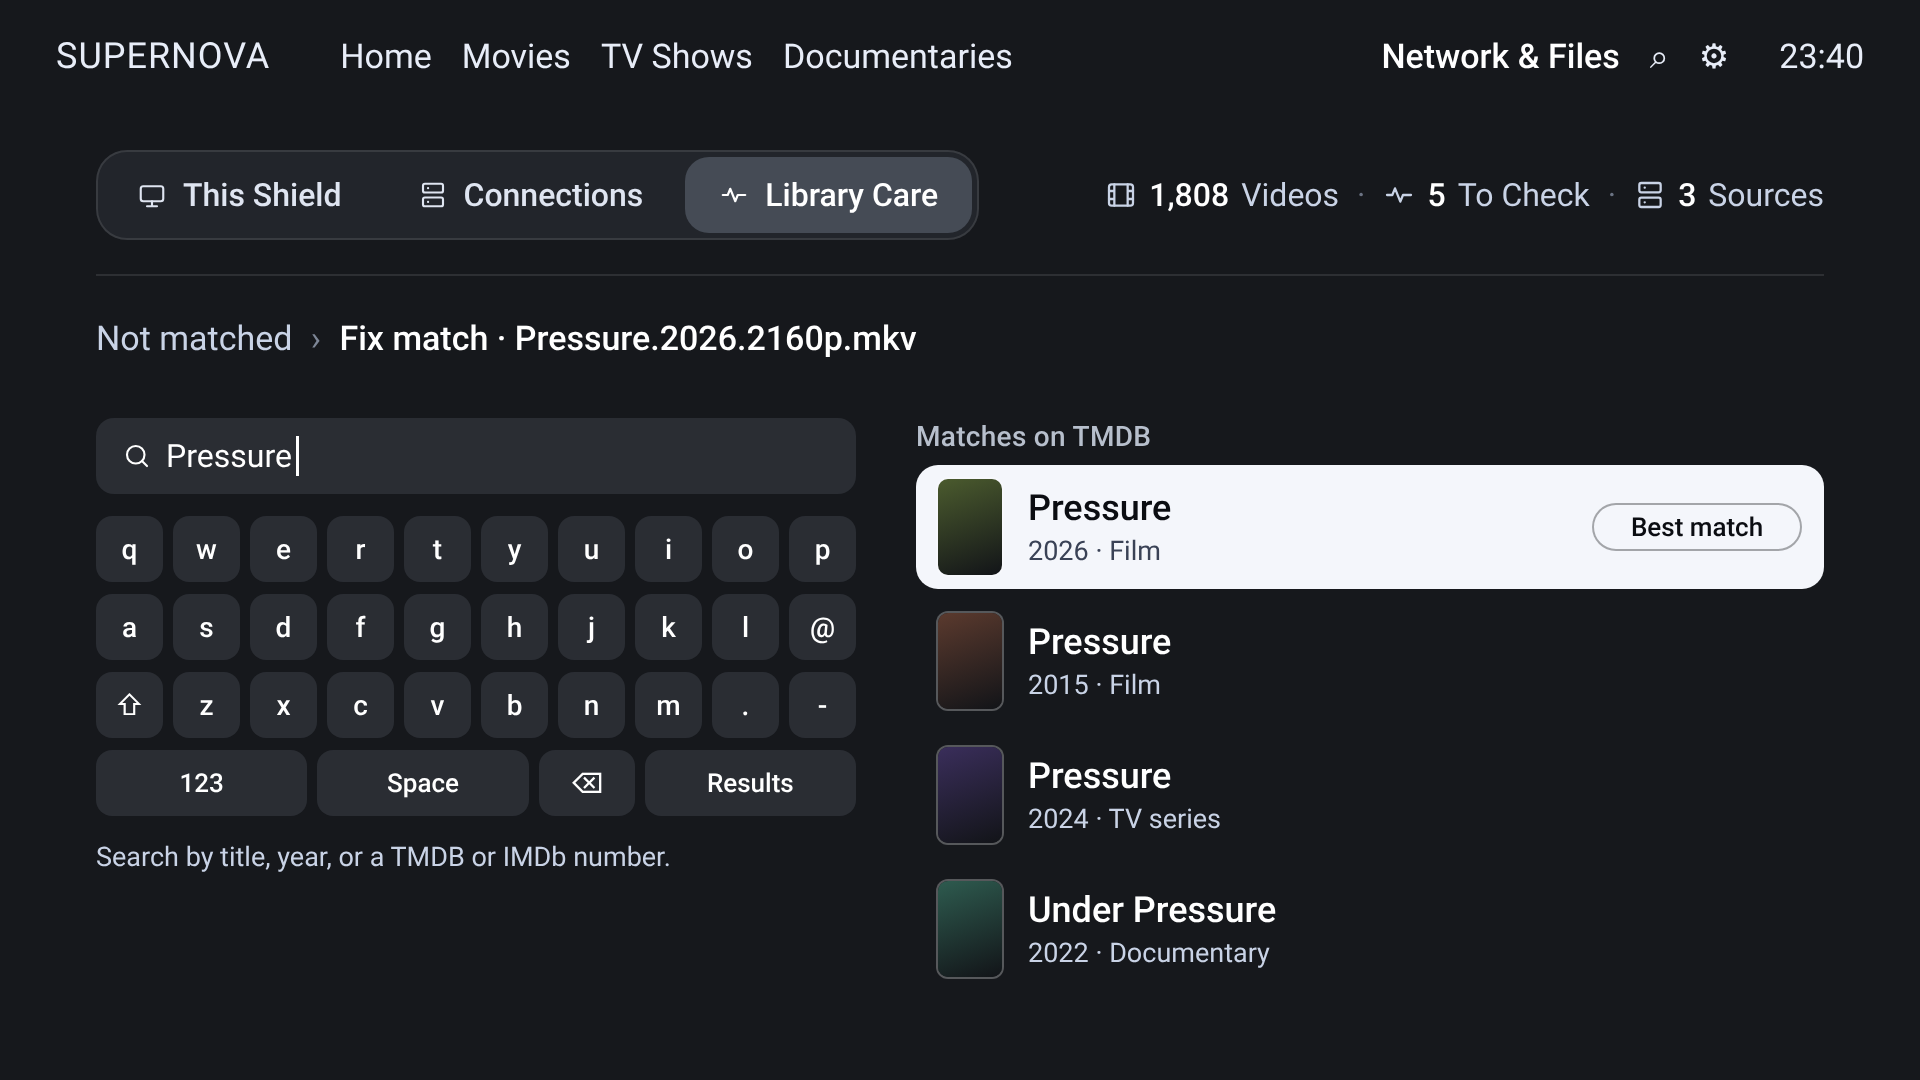
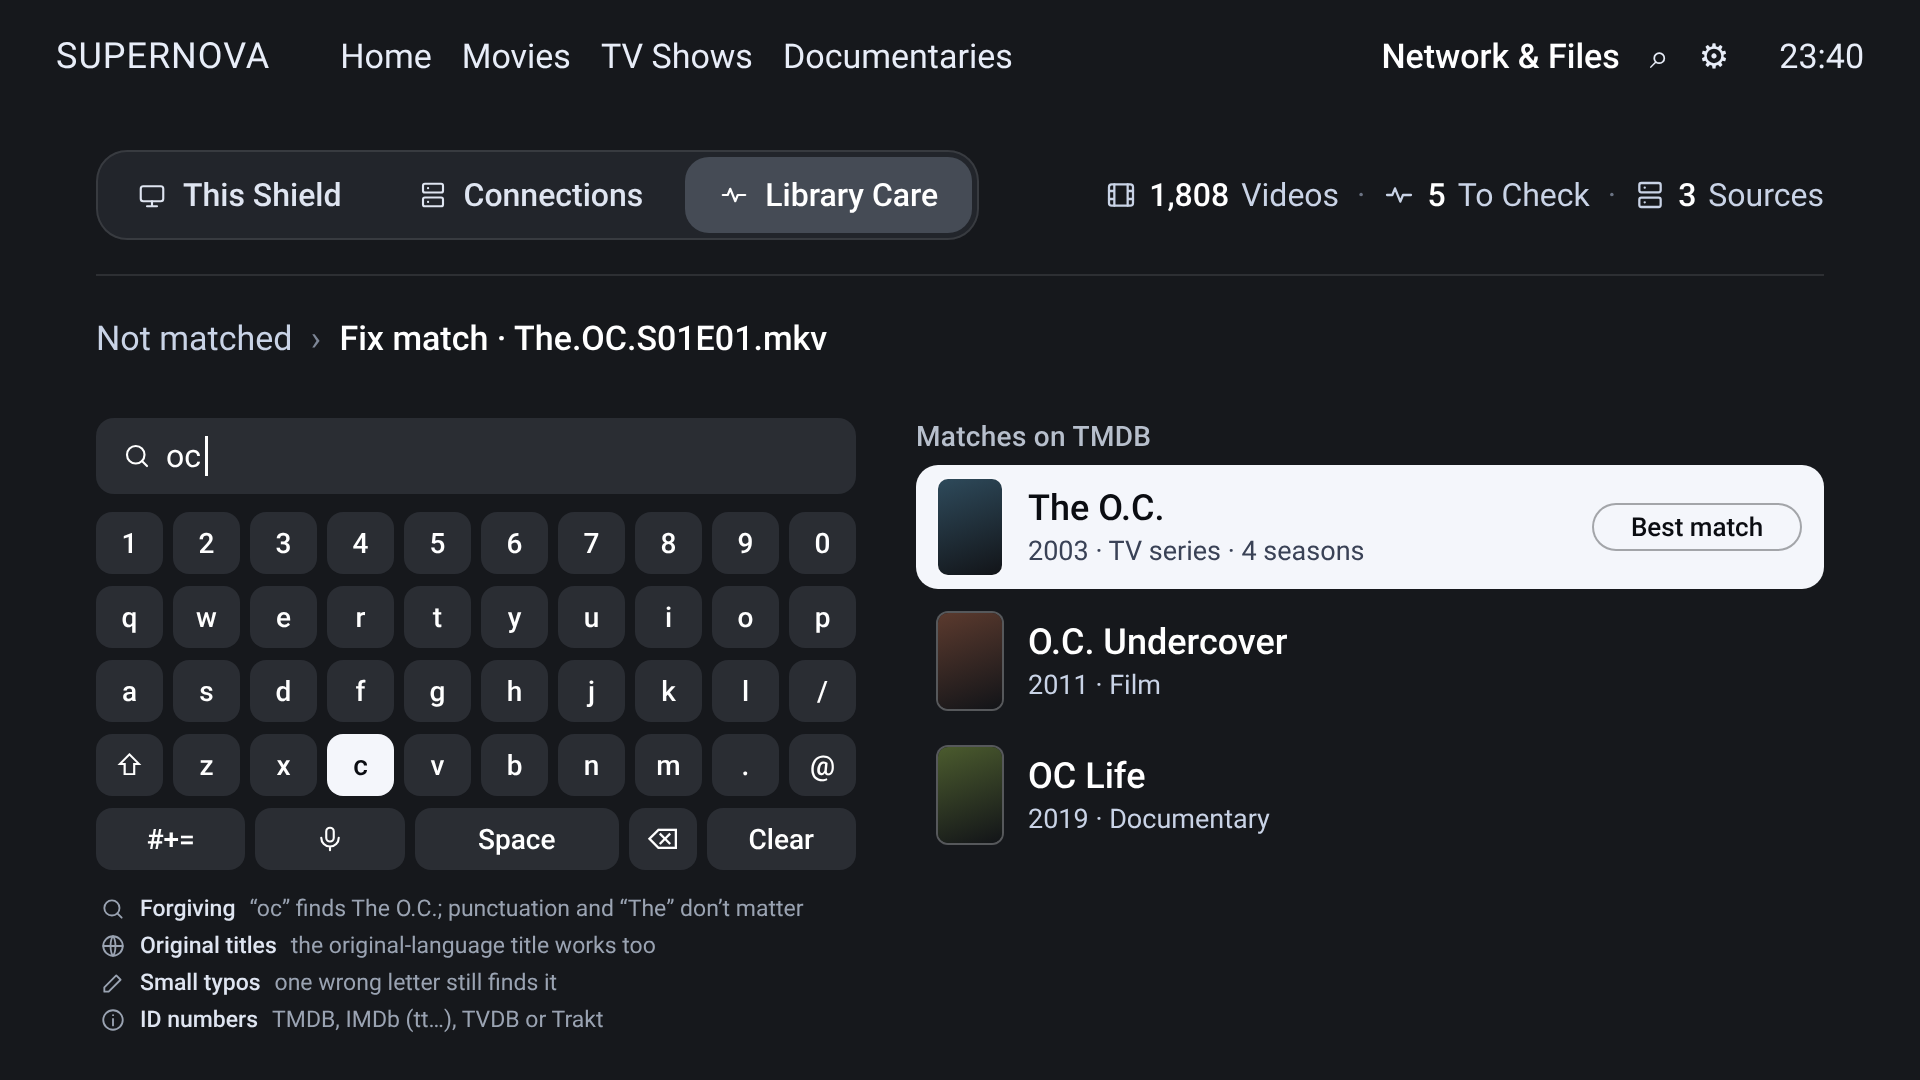
Exploring: Fix match page with the global keyboard and forgiving search like Search (owner)
Claude-Session: https://claude.ai/code/session_01FtDZqamY6pdaUKwc7fqgiA

diff --git a/docs/design/proposals/network-files-tabs/render.js b/docs/design/proposals/network-files-tabs/render.js
@@ -48,6 +48,7 @@ const I = {
   large: '<path d="M4 6h16M4 12h11M4 18h6"/>',
   small: '<path d="M4 6h6M4 12h11M4 18h16"/>',
   hourglass: '<path d="M7 3h10M7 21h10M8 3c0 5 8 5 8 9s-8 4-8 9M16 3c0 5-8 5-8 9s8 4 8 9"/>',
+  mic: '<rect x="9" y="3" width="6" height="11" rx="3"/><path d="M5 11a7 7 0 0 0 14 0M12 18v3"/>',
   eye: '<path d="M2 12s4-7 10-7 10 7 10 7-4 7-10 7S2 12 2 12z"/><circle cx="12" cy="12" r="3"/>',
 };
 const head = (open, focusTab, summary) => `<div class="tabrow"><div class="tray">${[['local', 'This Shield'], ['shares', 'Connections'], ['library', 'Library Care']]
@@ -195,14 +196,22 @@ const missingNotFound = healthPage('Missing files', '', `
 ${lrow('film', 'The Bear · S3 E4', 'Not on Backup #1 · is the drive plugged in?', 'Not found', [['search', 'Search everywhere'], ['remove', 'Remove']], true)}
 ${lrow('film', 'Arrival (2016)', 'Backup #1 › Films · since 5 Nov', 'Missing', null, false)}`);
 const fmRows = [['Pressure', '2026 · Film', true, '#4b5b2e'], ['Pressure', '2015 · Film', false, '#5b3a2e'], ['Pressure', '2024 · TV series', false, '#3a2e5b'], ['Under Pressure', '2022 · Documentary', false, '#2e5b4f']];
+const gkeys = [['1', '2', '3', '4', '5', '6', '7', '8', '9', '0'], ['q', 'w', 'e', 'r', 't', 'y', 'u', 'i', 'o', 'p'],
+  ['a', 's', 'd', 'f', 'g', 'h', 'j', 'k', 'l', '/'], ['⇧', 'z', 'x', 'c', 'v', 'b', 'n', 'm', '.', '@'], ['#+=', 'mic', 'Space', '⌫', 'Clear']];
+const keyLabel = k => k === 'mic' ? icon(I.mic, 30) : k;
+const tips = [['search', 'Forgiving', '“oc” finds The O.C.; punctuation and “The” don’t matter'],
+  ['globe', 'Original titles', 'the original-language title works too'],
+  ['edit', 'Small typos', 'one wrong letter still finds it'],
+  ['info', 'ID numbers', 'TMDB, IMDb (tt…), TVDB or Trakt']];
+const ocRows = [['The O.C.', '2003 · TV series · 4 seasons', true, '#2e4a5b'], ['O.C. Undercover', '2011 · Film', false, '#5b3a2e'], ['OC Life', '2019 · Documentary', false, '#4b5b2e']];
 const fixMatch = `${nav}<div class="page">${head('library', '', [['1,808', 'videos'], ['5', 'to check'], ['3', 'sources']])}
-${crumbrow(['Not matched', 'Fix match · Pressure.2026.2160p.mkv'])}
+${crumbrow(['Not matched', 'Fix match · The.OC.S01E01.mkv'])}
 <div class="fixgrid"><div class="col">
-<div class="pin">${icon(I.search, 30)}<span style="margin-left:14px">Pressure</span><i class="caret"></i></div>
-<div class="kb" style="margin-top:22px">${keyrows.map(row => `<div class="krow">${row.map(k => `<span class="key ${k.length > 1 ? 'wide' : ''}">${k === 'Next field' ? 'Results' : k}</span>`).join('')}</div>`).join('')}</div>
-<div class="rl p">Search by title, year, or a TMDB or IMDb number.</div>
+<div class="pin">${icon(I.search, 30)}<span style="margin-left:14px">oc</span><i class="caret"></i></div>
+<div class="kb gk" style="margin-top:18px">${gkeys.map(row => `<div class="krow">${row.map(k => `<span class="key ${k.length > 1 ? 'wide' : ''} ${k === 'Space' ? 'space' : ''} ${k === 'c' ? 'focus' : ''}">${keyLabel(k)}</span>`).join('')}</div>`).join('')}</div>
+<div class="tips">${tips.map(([ic, t, l]) => `<div class="tip">${icon(I[ic], 26)}<b>${t}</b><span>${l}</span></div>`).join('')}</div>
 </div><div class="col"><div class="sec first">Matches on TMDB</div>
-${fmRows.map(([t, l, f, c], i) => `<div class="prow ${f ? 'focus' : ''}"><span class="poster" style="background:linear-gradient(160deg,${c},#121418)"></span><div class="pt2"><div class="rn">${t}</div><div class="rl">${l}</div></div>${i === 0 ? '<span class="state" style="margin-left:auto">Best match</span>' : ''}</div>`).join('')}
+${ocRows.map(([t, l, f, c], i) => `<div class="prow ${f ? 'focus' : ''}"><span class="poster" style="background:linear-gradient(160deg,${c},#121418)"></span><div class="pt2"><div class="rn">${t}</div><div class="rl">${l}</div></div>${i === 0 ? '<span class="state" style="margin-left:auto">Best match</span>' : ''}</div>`).join('')}
 </div></div></div>`;
 const notFilm = healthPage('Not matched', '', `
 ${notice('home-video-2019.mp4 is now a personal video', 'It stays in This Shield › Backup #1 › Films, out of Movies and TV Shows.', 'Undo')}
@@ -288,6 +297,8 @@ body{width:1920px;height:1080px;overflow:hidden;font-family:R;color:#fff;backgro
 .poster{display:inline-block;width:64px;height:96px;border-radius:10px;box-shadow:0 0 0 2px rgba(255,255,255,.28)}
 .fixgrid{display:grid;grid-template-columns:760px minmax(0,1fr);gap:60px}.fixgrid .col{min-width:0}
 .fixgrid .prow{margin-top:10px;padding:14px 22px}.fixgrid .prow:first-of-type{margin-top:0}.pt2{flex:1}.prow.focus .state{color:#0B0D12;box-shadow:inset 0 0 0 2px rgba(11,13,18,.35)}
+.gk .key{height:62px;font-size:28px}.gk .key.space{flex:3}
+.tips{margin-top:20px}.tip{display:flex;gap:14px;align-items:center;padding:5px 4px;color:#9aa3b2;font-size:23px;white-space:nowrap}.tip b{color:#dfe5f1;font-weight:500}
 .sw{width:76px;height:40px;border-radius:20px;background:#3a3f48;position:relative}.sw i{position:absolute;top:4px;left:4px;width:32px;height:32px;border-radius:50%;background:#fff}.sw.on{background:#cfd6e2}.sw.on i{left:40px;background:#16181C}`;
 (async () => {
   const browser = await chromium.launch();

diff --git a/docs/REVISIT_LATER.md b/docs/REVISIT_LATER.md
@@ -123,6 +123,12 @@ Items already built or scheduled are left out (see the bottom of this file).
   v10: menu rule made global (CLAUDE.md, 0.157 notes #15); Sort icons are unique and mirrored (A→Z / Z→A,
   long-to-short / short-to-long bars, clock / hourglass). Fix match in the redesign is a page, not a side panel:
   search field and keyboard on the left, TMDB results with posters on the right ("Best match" pill). Mock-up 14b.
+  v11 (owner, 6 Nov): Fix match uses the global keyboard (numbers row, / . @, Shift, #+=, voice, Space, delete,
+  Clear) with "what you can search" under it, and is as forgiving as Search: punctuation, capitals and a leading
+  "The" ignored ("oc" finds The O.C.), original titles, one-letter typos, and TMDB, IMDb (tt…), TVDB or Trakt
+  numbers. Note: Search looks in the local library; Fix match asks TMDB, which is stricter, so the forgiveness
+  (cleaned query, dotted-initials and "The" variants, typo retry) and the Trakt/TVDB number look-ups are engine
+  work for Codex when this is built. Trakt has a numeric ID and a slug for every film and show.
 
 ## Parked (owner, 5 Nov 2026) — no version
 - **Supernova screensaver** (approved design, owner notes 0.155 #27, mock-ups `docs/design/proposals/settings/16`–`17`):
